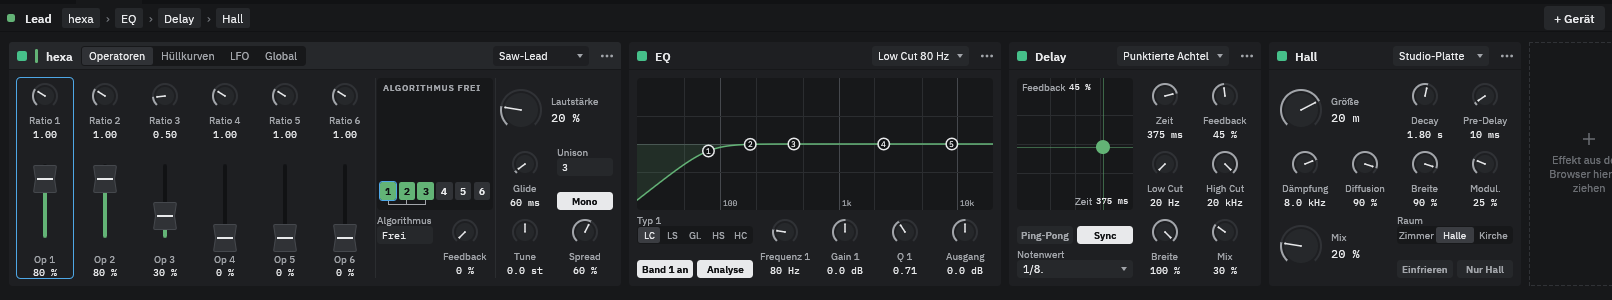
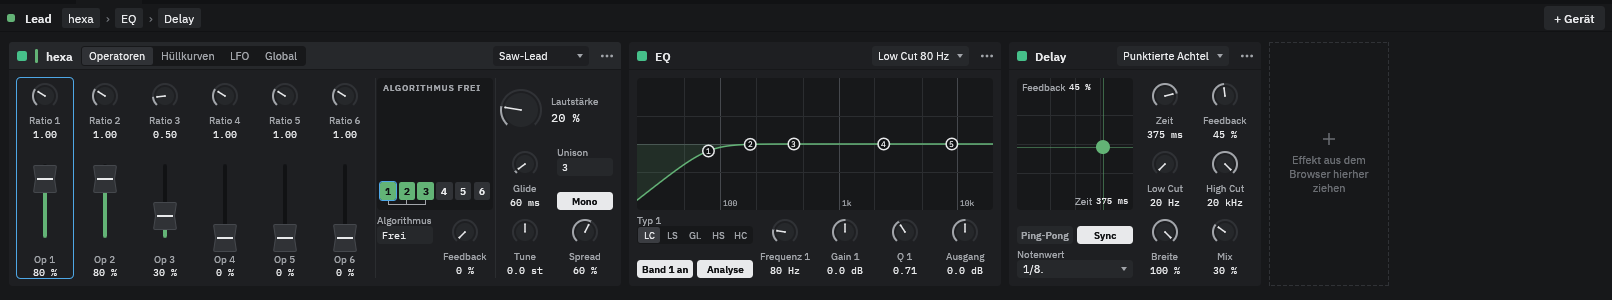
Fix README media capture for the group/bus demo routing
Select tracks by clicking the name (indented group members put the row centre on the M toggle, which muted
Bass instead of selecting it), rewrite the sidechain scenario around the demo's existing presse SC chip,
tighten crops, regenerate docs/media and adjust README captions.

diff --git a/scripts/readme-media/capture.py b/scripts/readme-media/capture.py
@@ -209,7 +209,14 @@ def open_dock(s, y=DOCK_Y):
 
 
 def select_track(s, name):
-    s.click(role="Row", contains=f"Spur {name},")
+    """Selects a track by its header (AccessKit row "Spur <name>, <instrument>").
+
+    The row's centre is not safe: tracks inside a group are indented and the centre then lands on the M/S
+    toggles (it muted Bass and never selected it). Click on the name, 36 px right of the row's left edge.
+    """
+    b = s.bounds(role="Row", contains=f"Spur {name},")
+    s.click_pos({"x": b["x"] + 36, "y": b["y"] + b["h"] / 2})
+    s.pause(0.3)
 
 
 def open_devices(s, track):
@@ -294,7 +301,7 @@ def piano_roll(s):
     s.pause(1.0)
     top = dock_top(s)
     s.gif("piano-roll", (DOCK_X, top, 1040, 300), 1040, fps=12, trim=(0.3, None))
-    s.shot("piano-roll", crop=(DOCK_X, top, 1379, 300))
+    s.shot("piano-roll", crop=(DOCK_X, top, 1379, 296))
 
 
 def step_sequencer(s):
@@ -303,7 +310,7 @@ def step_sequencer(s):
     open_dock(s, 380)
     s.pause(0.6)
     top = dock_top(s)
-    s.shot("step-sequencer", crop=(DOCK_X, top, 1379, 330))
+    s.shot("step-sequencer", crop=(DOCK_X, top, 1379, 320))
     s.rec_start()
     play(s)
     s.pause(0.8)
@@ -313,7 +320,7 @@ def step_sequencer(s):
             s.pause(0.3)
     s.pause(1.5)
     stop(s)
-    s.gif("step-sequencer", (DOCK_X, top, 1379, 330), 1040, fps=12, trim=(0.3, None))
+    s.gif("step-sequencer", (DOCK_X, top, 1379, 320), 1040, fps=12, trim=(0.3, None))
 
 
 def devices(s):
@@ -327,31 +334,30 @@ def devices(s):
 
 
 def sidechain(s):
-    """Sidechain: add presse to the bass, key it from the drums, play (GIF + PNG)."""
+    """Sidechain: presse on the bass keyed by the drums (SC popover PNG), then play and record the pumping (GIF)."""
+    s.click(role="Button", label="Browser")  # fold the browser: the whole presse fits in the dock
     open_dock(s, 380)
     open_devices(s, "Bass")
     top = dock_top(s)
-    s.click_pos({"x": 790, "y": 83})  # ruler, bar 5: drums and bass play
+    s.pause(0.4)
+    # The demo already has presse on the Bass, keyed by the Drums (pre-fader): open the SC chip's popover briefly.
+    s.click(role="Button", label="Sidechain: Drums")
+    s.wait_for(role="Menu", label="Sidechain-Quelle")
+    s.pause(0.5)
+    chip = s.bounds(role="Button", label="Sidechain: Drums")
+    s.shot("presse-sidechain", crop=(int(chip["x"]) - 330, top + 28, 560, 410))
+    s.key("Escape")
+    s.pause(0.5)
+    s.click_pos({"x": 553, "y": 83})  # ruler, bar 5 (browser folded): drums and bass play
+    s.pause(0.3)
     s.rec_start()
-    s.pause(0.5)
-    s.click(role="Button", label="+ Gerät")
-    s.pause(0.5)
-    for ch in "pre":
-        s.type(ch)
-        s.pause(0.2)
-    s.pause(0.5)
-    s.click(role="ListBoxOption", label="presse")
-    s.pause(0.6)
-    s.click(role="Button", label="Sidechain: aus")
-    s.pause(0.8)
-    s.shot("presse-sidechain", crop=(DOCK_X + 560, top + 28, 820, 430))
-    s.click(role="MenuItemRadio", label="Drums")
-    s.pause(0.6)
+    s.pause(0.4)
     play(s)
-    s.pause(1.8)
-    s.shot("presse-ducking", crop=(DOCK_X, top + 28, 1379, 300))
+    s.pause(1.5)
+    s.shot("presse-ducking", crop=(650, top + 28, 880, 300))
+    s.pause(4.0)
     stop(s)
-    s.gif("sidechain", (DOCK_X, top + 28, 1379, 300), 1040, fps=12, trim=(0.4, 8.0))
+    s.gif("sidechain", (650, top + 28, 880, 300), 880, fps=12, trim=(0.5, 6.0))
 
 
 def eq_spectrum(s):

diff --git a/README.md b/README.md
@@ -15,7 +15,7 @@
   <img alt="Written in Rust" src="https://img.shields.io/badge/written%20in-Rust-b7410e">
 </p>
 
-![komponist with the demo project "Nachtfahrt": arrangement, piano roll and mixer meters while the transport plays](docs/media/hero.png)
+![komponist with the demo project "Nachtfahrt": arrangement, piano roll and track meters while the transport plays](docs/media/hero.png)
 
 komponist is a MIDI DAW written in Rust with [egui](https://github.com/emilk/egui). You arrange clips, edit notes and
 steps, shape sounds with built-in instruments and effects, host CLAP and VST3 plugins, and mix it all on the same
@@ -47,14 +47,14 @@ devices behind it:
 
 ![hexa (FM synth) with the EQ, Delay and Hall devices behind it](docs/media/device-hexa.png)
 
-**volt** is a subtractive synth with two oscillators, a filter and a sub oscillator:
+**volt** is a subtractive synth with two oscillators, a filter and a sub oscillator. Here on the bass, with an EQ and a presse keyed by the drums:
 
-![volt, a subtractive synth, with an EQ](docs/media/device-volt.png)
+![volt, a subtractive synth, with an EQ and presse](docs/media/device-volt.png)
 
 The **Sampler** is a pad sampler with layers, envelopes, filters and slicing. The demo kit is synthesized, so it needs
-no sample files. Next to it, the presse compressor with its sidechain chip:
+no sample files. Next to it, the presse compressor:
 
-![Sampler with its pads, and the presse compressor with its sidechain chip](docs/media/device-sampler-presse.png)
+![Sampler with its pads, and the presse compressor](docs/media/device-sampler-presse.png)
 
 ### Built-in effects
 
@@ -72,7 +72,7 @@ Add a device from the search menu in the dock, or drag it from the browser onto 
 Key presse from another track's signal: choose the source in the **SC** chip of the device. Here, presse on the bass is
 keyed by the drums:
 
-![Adding presse to the bass, choosing the drums as sidechain source and watching the gain reduction](docs/media/sidechain.gif)
+![presse on the bass, keyed by the drums: the gain reduction pumps with the kick](docs/media/sidechain.gif)
 
 ### CLAP and VST3 plugins
 
@@ -86,7 +86,7 @@ does not take your project down with it. Plugin windows open as native X11 windo
   track or bus.
 - Every edit is undoable, including parameter changes.
 
-The mixer shows every track with its inserts, pan, mute/solo, faders and level meters, next to the master channel:
+The mixer shows every track with its inserts, sends, pan, mute/solo, faders and level meters. The group (Rhythmus) and the effect bus (Hall) have strips of their own on the right, next to the master channel:
 
 ![The mixer with the arrangement above it, playing](docs/media/mixer.png)
 
